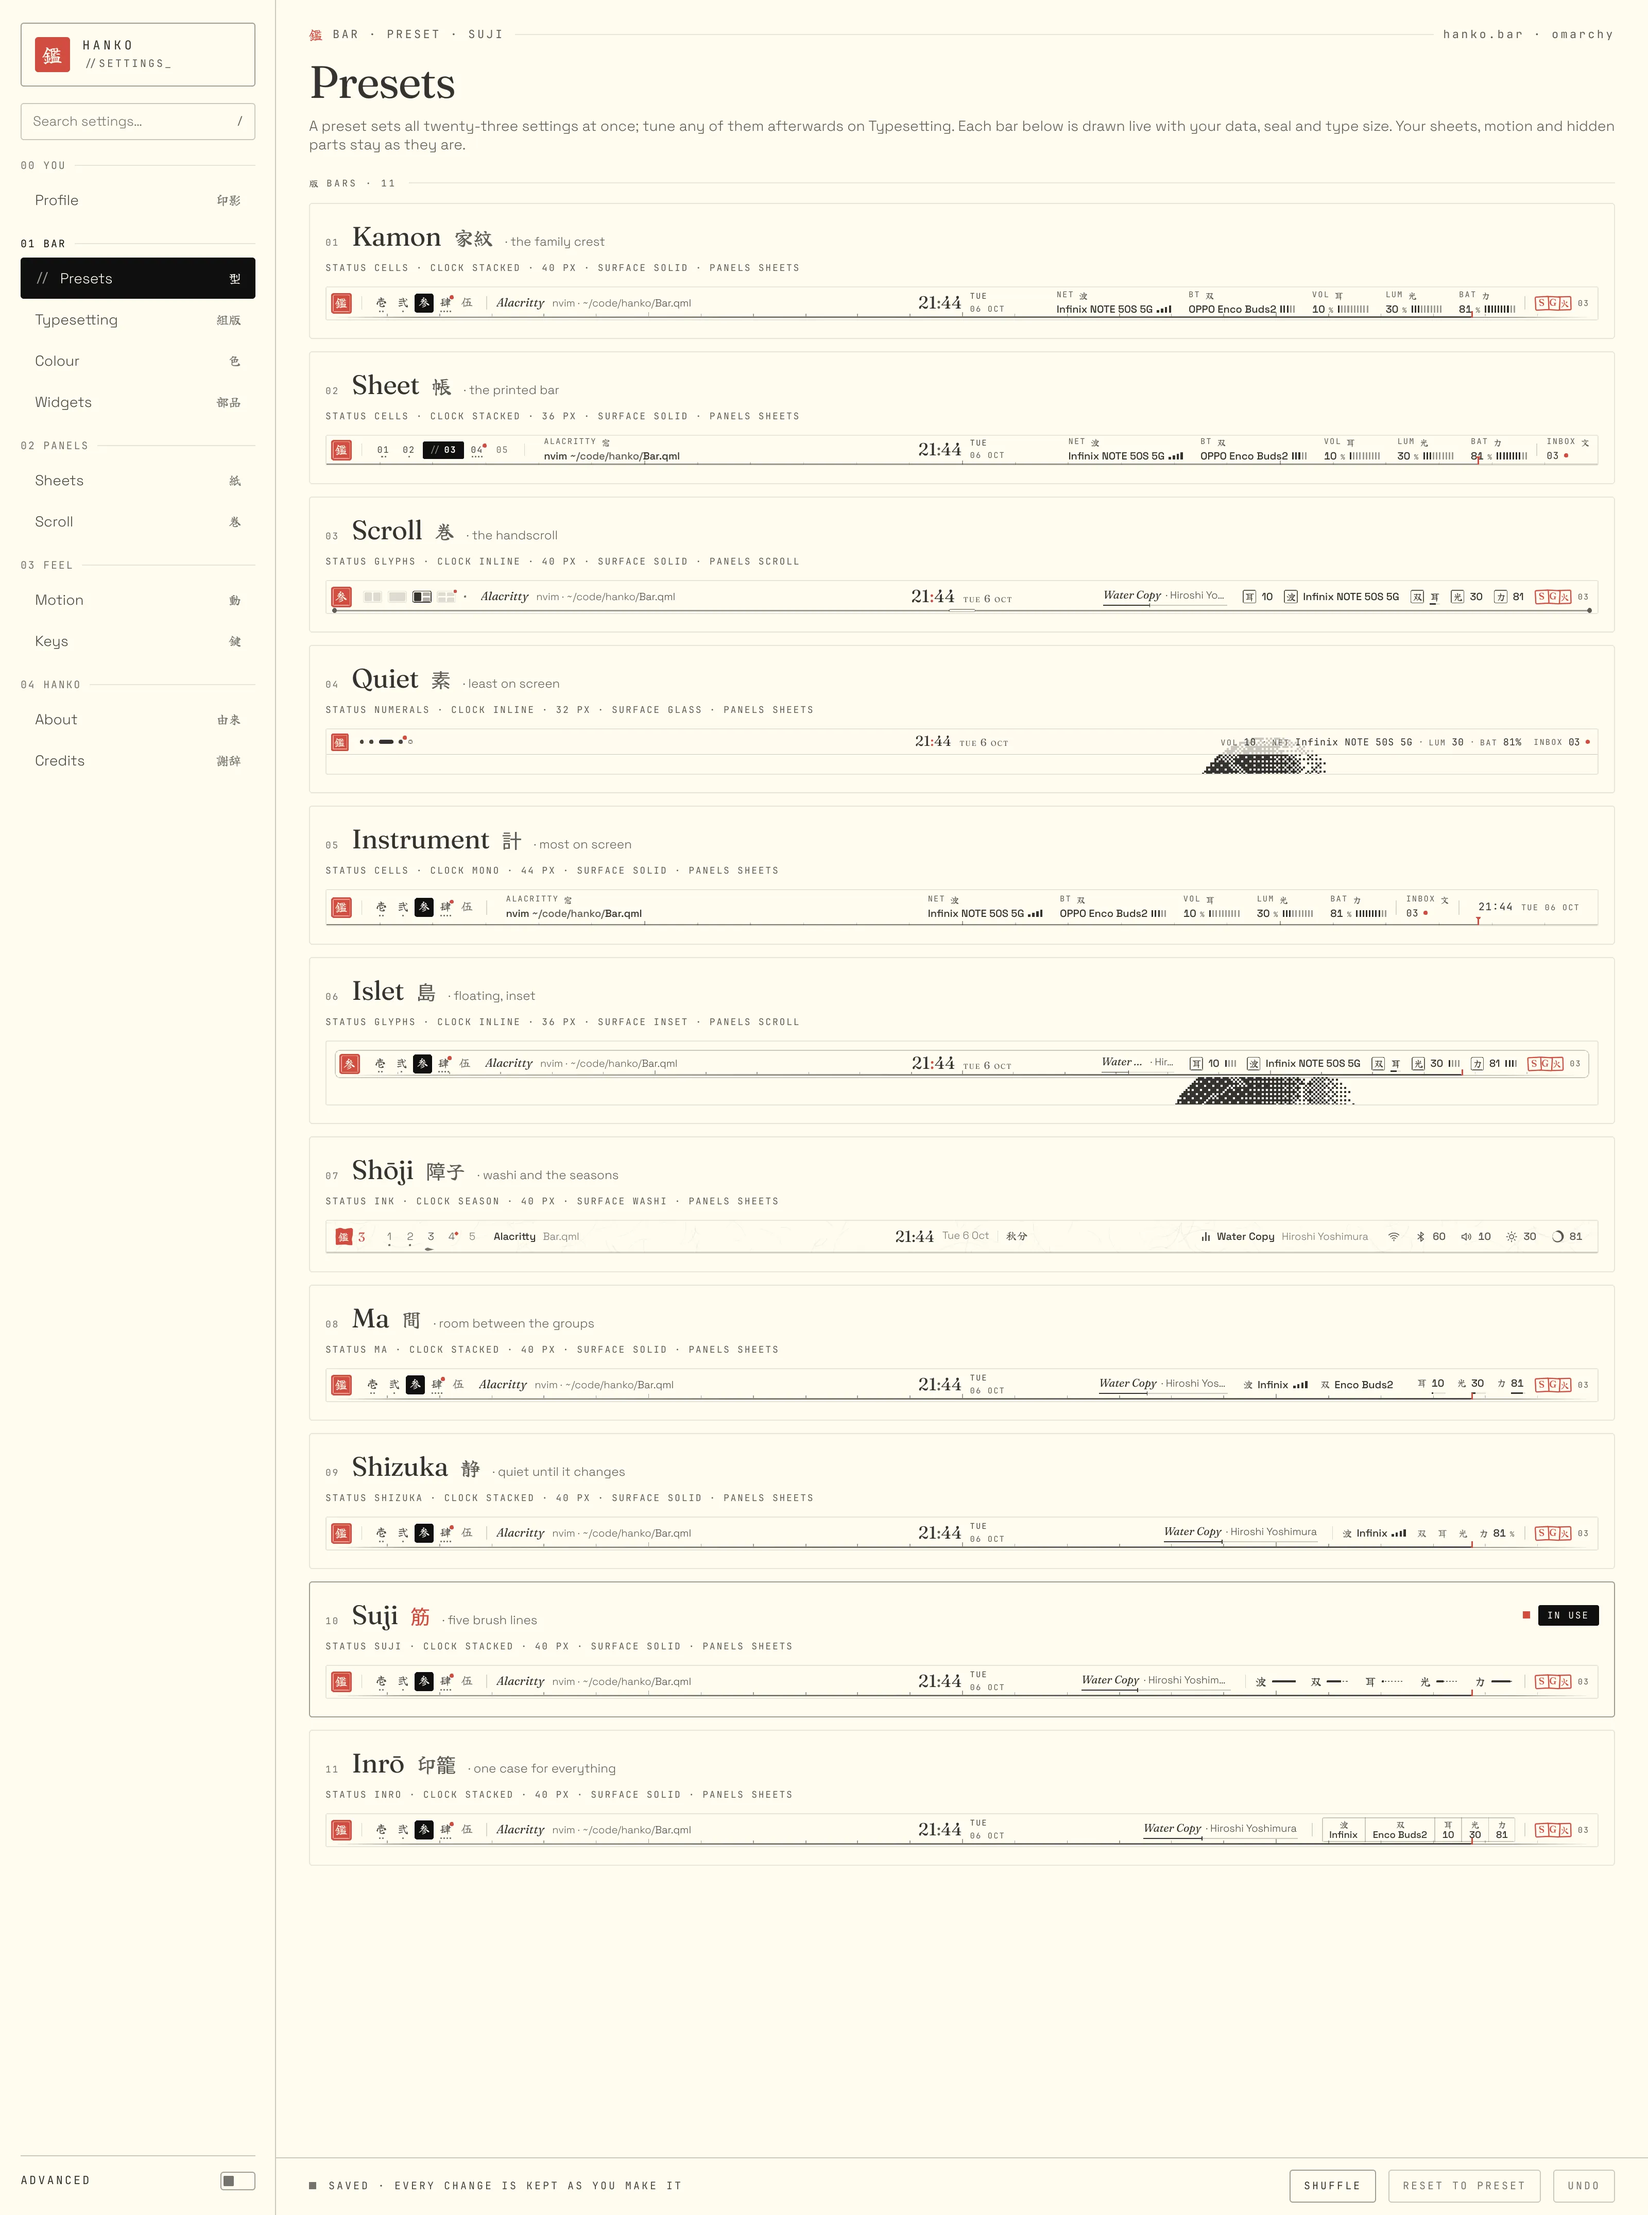
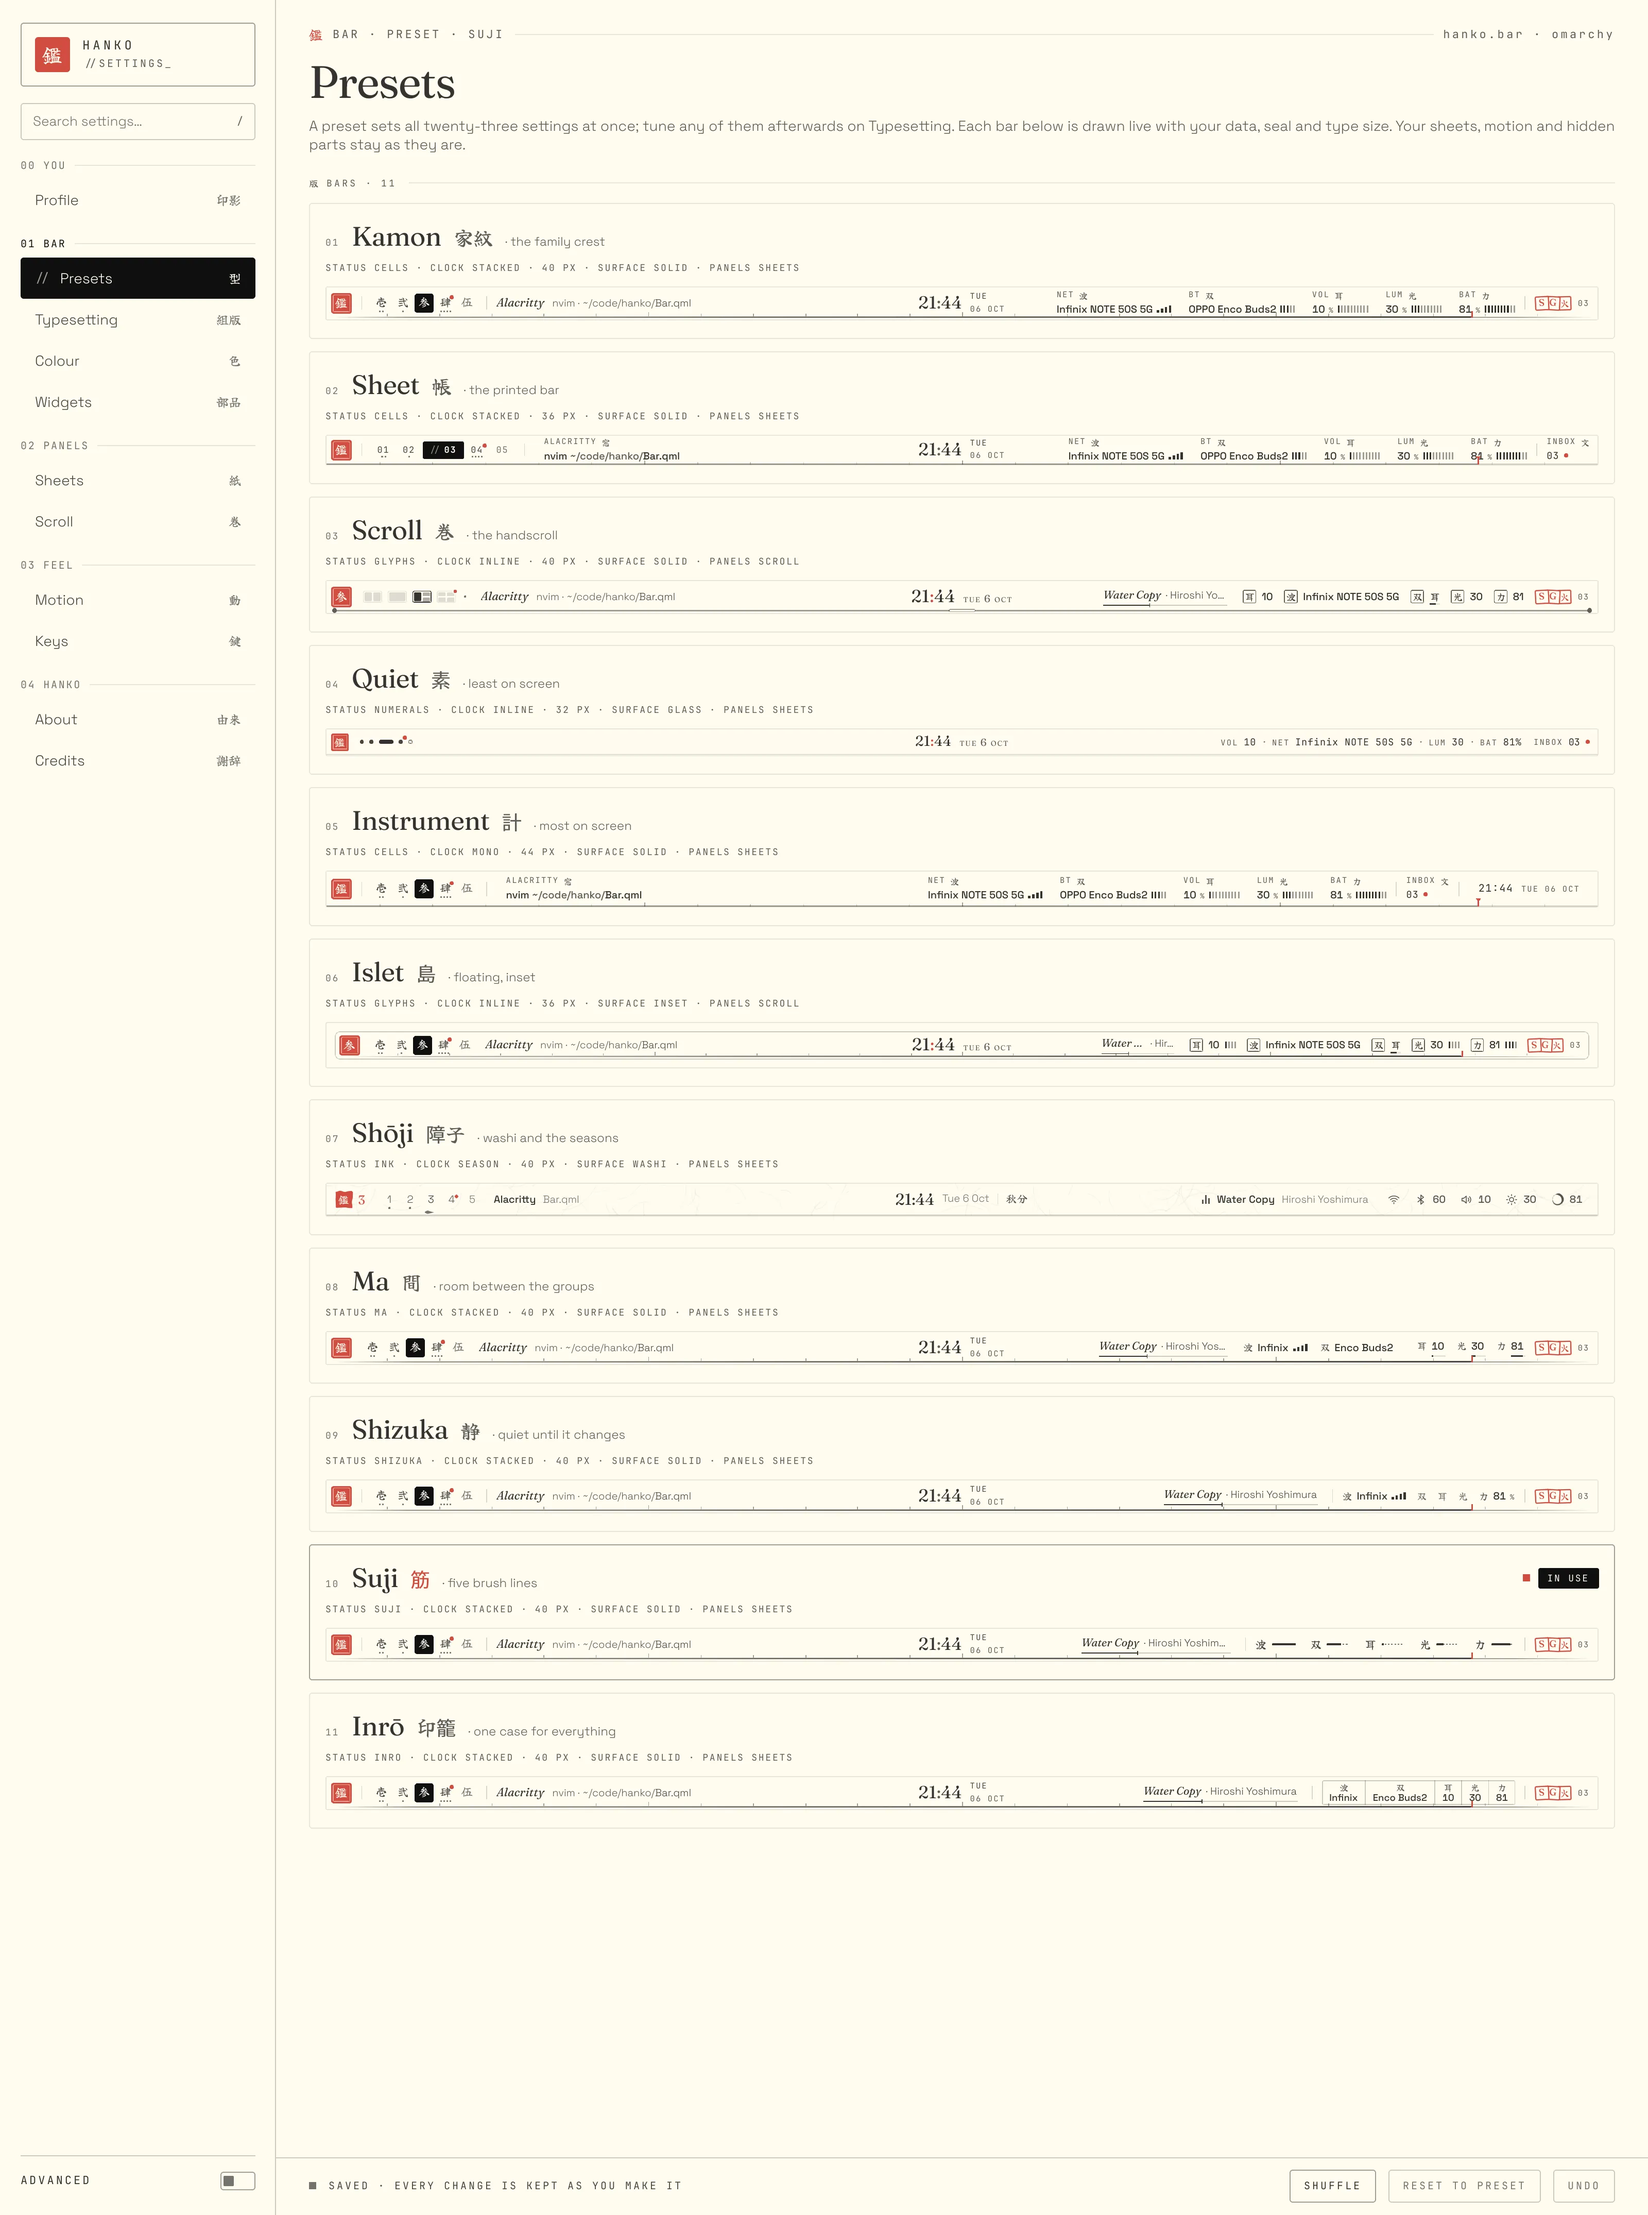
Settings: no dithered moon behind the previews on Presets and Typesetting
The bars on Presets and the live preview on Typesetting now sit on bare
paper; the dithered orb behind them is gone. About keeps its moon.

diff --git a/bar/settings/PresetsPage.qml b/bar/settings/PresetsPage.qml
@@ -7,7 +7,7 @@ import "../../core/Settings.js" as Settings
 // Settings › Presets 型: every preset as a specimen, drawn live with your
 // data, as one list: the bars, then the four right-side studies
 // (Style.js PRESET_GROUPS gives the order and the numbering). A card is its number, name, kanji and blurb, the
-// settings that tell it apart, and the bar itself over the sample plate.
+// settings that tell it apart, and the bar itself.
 // The one in use carries the red mark (red means you) and IN USE, with the
 // edits you made on top of it; a click on any other puts it on your bar.
 // Your seal glyph, type size and hidden parts show in every preview, as
@@ -182,25 +182,19 @@ Item {
               font.capitalization: Font.AllUppercase
             }
 
-            // The bar, over the sample plate (so glass and inset show).
+            // The bar, on bare paper.
             Rectangle {
               id: box
               x: card.pad
               y: facts.y + facts.height + Type.px(12)
               width: card.width - 2 * card.pad
               readonly property int gap: card.style.surface === "inset" ? Type.px(8) : 0
-              height: preview.height + 2 + 2 * gap + Type.px(card.style.surface === "solid" || card.style.surface === "washi" ? 0 : 18)
+              height: preview.height + 2 + 2 * gap
               radius: 2
               color: "transparent"
               border.width: 1
               border.color: Ink.lineSoft
               clip: true
-              Plate {
-                // Only where the paper lets it through: a solid bar hides it.
-                visible: card.style.surface === "glass" || card.style.surface === "inset"
-                anchors.fill: parent
-                anchors.margins: 1
-              }
               PreviewBar {
                 id: preview
                 x: 1 + box.gap

diff --git a/bar/settings/SettingsPage.qml b/bar/settings/SettingsPage.qml
@@ -13,8 +13,7 @@ import "../scroll"
 // live bar data; the harness renders it still.
 //
 // Presets 型 shows every preset as a live specimen (PresetsPage.qml).
-// Typesetting 組版 holds every setting: a live preview of the bar over a
-// sample plate, a line naming the preset (a link to Presets), and six cards
+// Typesetting 組版 holds every setting: a live preview of the bar, a line naming the preset (a link to Presets), and six cards
 // of segmented controls.
 Rectangle {
   id: root
@@ -429,19 +428,15 @@ Rectangle {
 
           Item { width: 1; height: Type.px(16) }
 
-          // The live preview: your bar over a sample plate.
+          // The live preview: your bar, on bare paper.
           Rectangle {
             width: parent.width
-            height: Math.max(Type.px(108), preview.height + Type.px(40) + preview.y)
+            height: preview.y + preview.height + Type.px(30)
             radius: 3
             color: "transparent"
             border.width: 1
             border.color: Ink.line
             clip: true
-            Plate {
-              anchors.fill: parent
-              anchors.margins: 1
-            }
             Item {
               id: preview
               readonly property int gap: root.style.surface === "inset" ? Type.px(8) : 0

diff --git a/docs/HANDOFF.md b/docs/HANDOFF.md
@@ -858,7 +858,7 @@ The first of five steps (plan below, in §10). Shōji's panels are a seventh she
 
 ### Presets 型, a page of their own ✅ (asked for: "the presets in the Typesetting tab all move to a new page named Presets, and add these 4 designs there too")
 - **`core/Settings.js`**: `RAIL` gains `presets` (Presets 型) as the first page of `01 BAR`; `pageInfo` falls back to Typesetting by key. `PRESET_KANJI` (判 帳 巻 素 計 島 障子 間 静 筋 印籠), `PRESET_FACTS` and `presetFacts(style)` (status, clock, height, surface, panels as one line), `presetMatches(name, query, PRESETS)` (name with or without the macron, kanji, blurb, any value set).
-- **`bar/settings/PresetsPage.qml`** (pure): `Style.PRESET_GROUPS` gives the order and numbering of one list under a single label (Bars · 11; the studies' own label and note were taken out at the user's request), a card per preset: number, Fraunces name, kanji (red when in use), blurb, the facts in tracked caps, and a `PreviewBar` of `S.resolve(S.withPreset(doc, name))` laid out at 1600 px (`minDesign`) so a full bar never meets its clock, over the `Plate` only for glass and inset. In use: a red square, IN USE in bone, `N EDITS`; others: USE › on hover, a click emits `presetPicked` (the one in use ignores clicks). Filtered by the search field; "No preset matches" when nothing does.
+- **`bar/settings/PresetsPage.qml`** (pure): `Style.PRESET_GROUPS` gives the order and numbering of one list under a single label (Bars · 11; the studies' own label and note were taken out at the user's request), a card per preset: number, Fraunces name, kanji (red when in use), blurb, the facts in tracked caps, and a `PreviewBar` of `S.resolve(S.withPreset(doc, name))` laid out at 1600 px (`minDesign`) so a full bar never meets its clock, on bare paper (the dithered `Plate` moon was taken out of Presets and Typesetting at the user's request; About still draws it). In use: a red square, IN USE in bone, `N EDITS`; others: USE › on hover, a click emits `presetPicked` (the one in use ignores clicks). Filtered by the search field; "No preset matches" when nothing does.
 - **`bar/settings/PreviewBar.qml`**: the inline `PreviewBar` from SettingsPage, now a file with `barData` and `minDesign`.
 - **`SettingsPage`**: the preset grid is gone from Typesetting; in its place a preset line (PRESET Hanko 判 + N edits · ALL 11 PRESETS ›, which opens Presets). The eyebrow names the preset on both pages; the action bar shows Shuffle on Presets and Reset to preset on both. **`SettingsWindow`**: typing a search on Presets stays there (it filters the cards).
 - Harness `presets.json`, `presets-light.json` (Suji in use), `presets-narrow.json`, `presets-search.json` (`glass` leaves Quiet). Images `docs/right-side/images/12-presets-page.webp`, `13-presets-page-light.webp`. Unit tests: 114.

diff --git a/docs/COMPONENTS.md b/docs/COMPONENTS.md
@@ -541,13 +541,13 @@ There is a search field at the top and an **Advanced** switch at the foot (which
 
 **Motion 動** holds one switch outside the twenty-three settings, `motion`: `paper` (default) moves like Scroll's motion sheet, `still` cuts every transition to its end frame. Omarchy's own animation switch, off, makes Hanko still too. The page lists every timing.
 
-**Presets 型** shows every preset as a specimen, drawn live with your data, seal glyph, type size and hidden parts, as one list under a single *Bars* label: Kamon, Sheet, Scroll, Quiet, Instrument, Islet, Shōji, then the right-side studies Ma, Shizuka, Suji, Inrō. Each card is numbered 01–11 and gives the name, its kanji (家紋 帳 巻 素 計 島 障子 間 静 筋 印籠), a blurb, the five settings that tell it apart (status, clock, height, surface, panels) and the bar itself, at a screen's width scaled to the card, over the sample plate where glass or inset lets it through. The preset in use carries the red mark and IN USE, with how many edits sit on top of it; pointing at another shows USE ›, and a click puts it on your bar. The search field filters the cards (by name, kanji, blurb or any value they set). The action bar adds **Shuffle** and **Reset to preset**.
+**Presets 型** shows every preset as a specimen, drawn live with your data, seal glyph, type size and hidden parts, as one list under a single *Bars* label: Kamon, Sheet, Scroll, Quiet, Instrument, Islet, Shōji, then the right-side studies Ma, Shizuka, Suji, Inrō. Each card is numbered 01–11 and gives the name, its kanji (家紋 帳 巻 素 計 島 障子 間 静 筋 印籠), a blurb, the five settings that tell it apart (status, clock, height, surface, panels) and the bar itself, at a screen's width scaled to the card, on bare paper. The preset in use carries the red mark and IN USE, with how many edits sit on top of it; pointing at another shows USE ›, and a click puts it on your bar. The search field filters the cards (by name, kanji, blurb or any value they set). The action bar adds **Shuffle** and **Reset to preset**.
 
 ![Presets](right-side/images/12-presets-page.webp)
 
 **Typesetting 組版**, the page drawn on sheets 01 and 02, holds every setting in this document:
 
-1. **Live preview**: your bar, on your theme, over a sample plate, updated as you click.
+1. **Live preview**: your bar, on your theme, on bare paper, updated as you click.
 2. **Preset line**: the preset this bar starts from, its kanji and how many edits are on top; ALL 11 PRESETS › opens Presets. (The gallery of preset cards that sat here moved to Presets 型.)
 3. **Six cards of segmented controls**, grouped the way the bar reads:
    - *Left · where you are*: Seal, Workspaces, Window title
